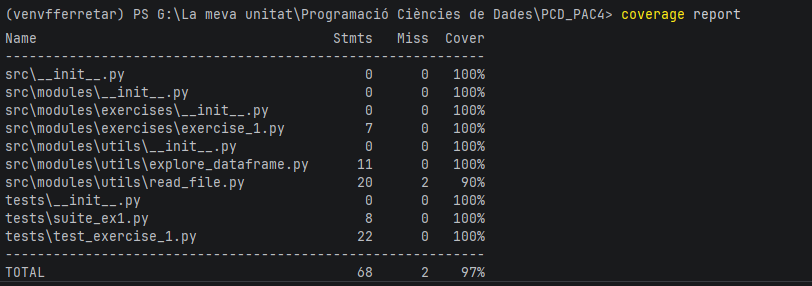
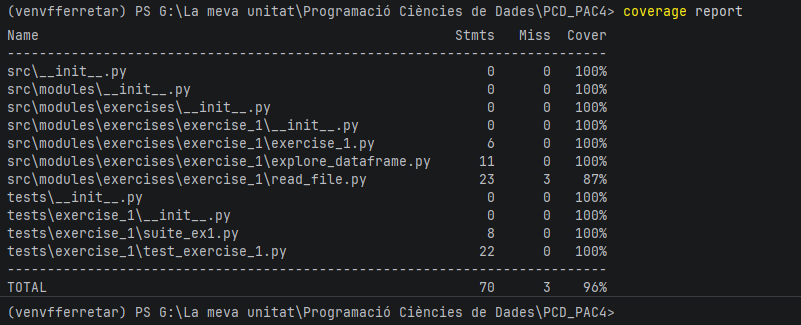
Changing screenshot of coverage of ex1

diff --git a/README.md b/README.md
@@ -160,7 +160,7 @@ a través de la comanda:
 pip install coverage
 ```
 
-Per tal de calcular el coverage, la comanda que s'ha d'executar és:
+Per tal de calcular el coverage, el qual es calcularà per cada exercici, la comanda que s'ha d'executar és:
 
 ```shell
 coverage run -m tests.exercise_<x>.suite_ex<x>
